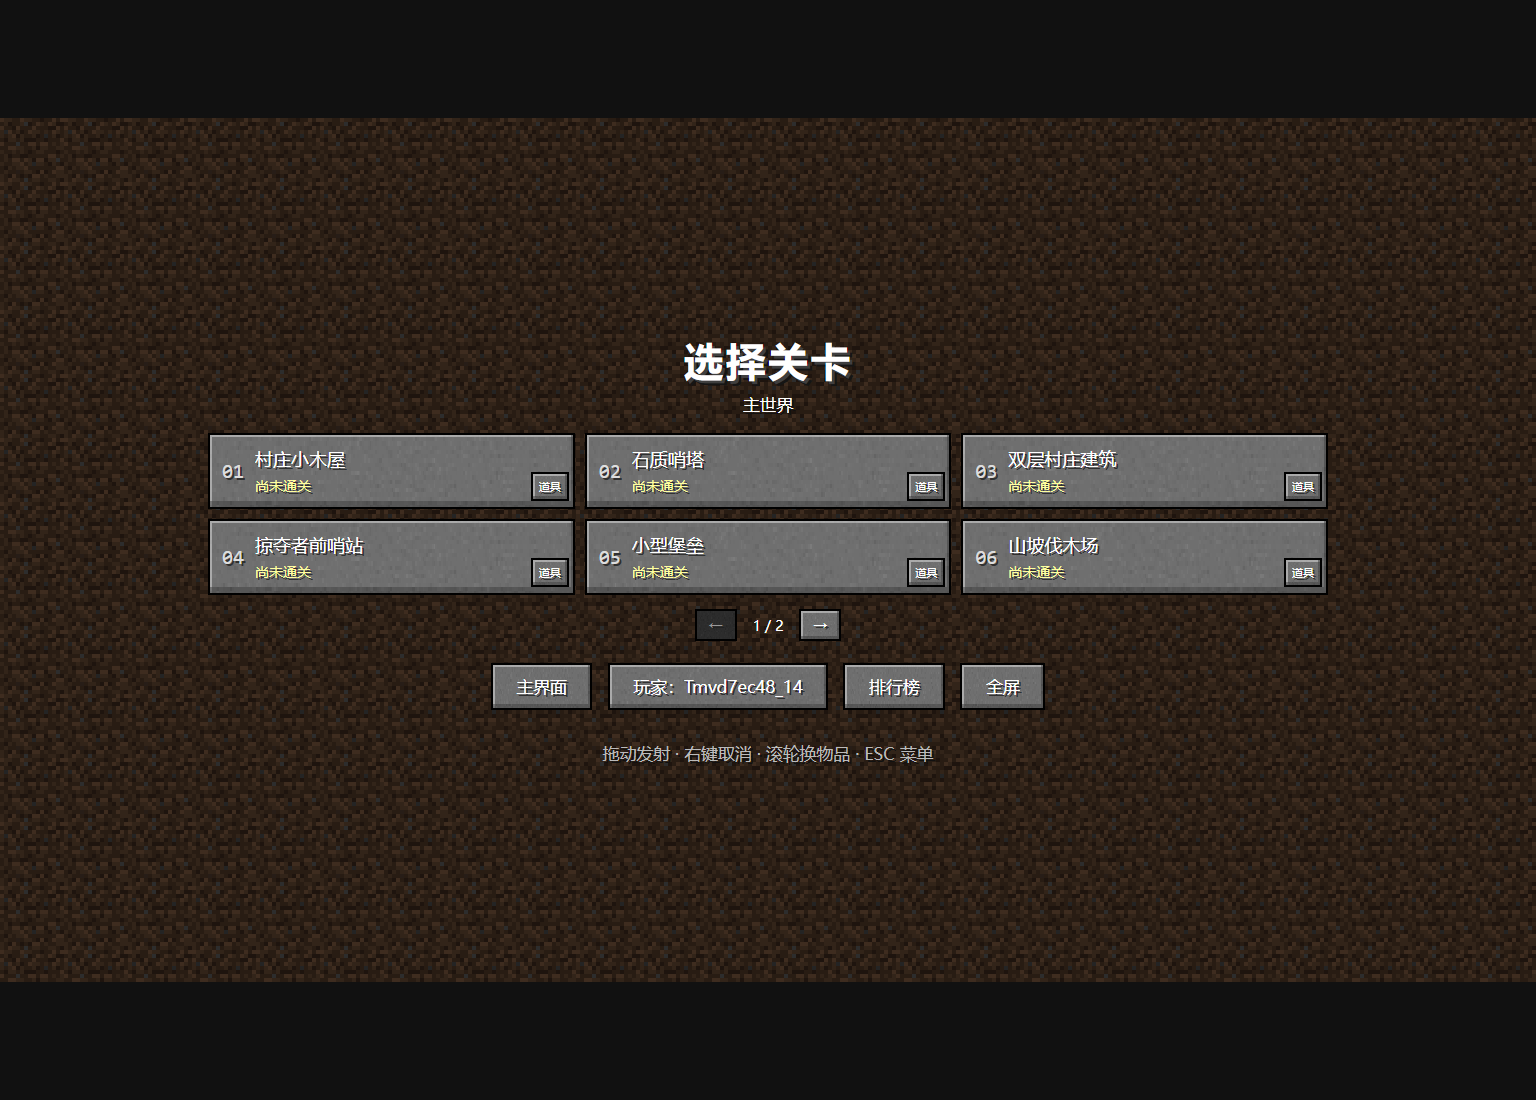
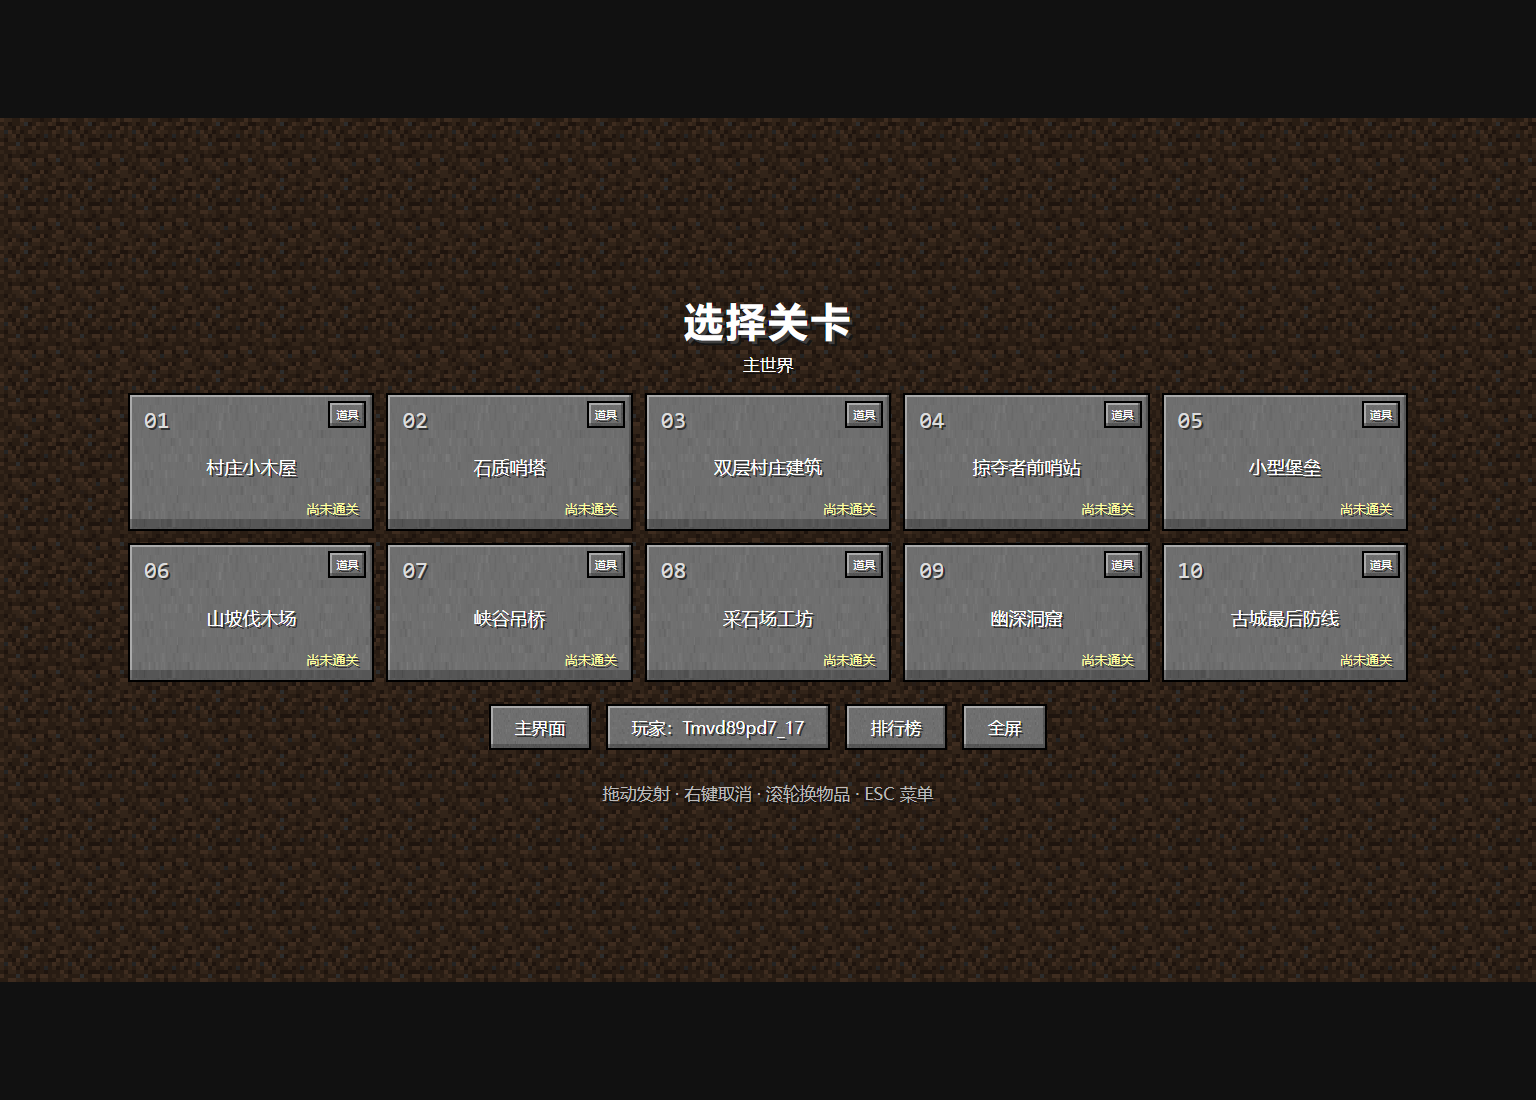
Polish cover menu, 16:9 level cards and audio settings

Changed region(s): [[0.0625, 0.2782, 0.9375, 0.7418]]

diff --git a/style.css b/style.css
@@ -16,19 +16,19 @@ canvas{display:block;width:100%;height:100%;touch-action:none;cursor:crosshair;i
 .ball:hover{background:#fff2}.ball.selected:before{content:"";position:absolute;inset:-10%;background:url('assets/gui/hotbar_selection.png') center/100% 100%;pointer-events:none;image-rendering:pixelated}
 .ball img{width:100%;height:100%;object-fit:contain;image-rendering:pixelated}
 .ball.empty img,.ball.empty .stack-count{visibility:hidden}
-.ball.depleted img{opacity:.38;filter:brightness(.55)}.ball.depleted .stack-count{color:#aaa}
+.ball.depleted img{opacity:.75;filter:brightness(.7)}.ball.depleted .stack-count{color:#ccc}
 .stack-count{position:absolute;z-index:3;right:3%;bottom:0;font:700 clamp(10px,1.4cqw,22px)/1 monospace;text-shadow:2px 2px #111,-1px -1px #111}
 .menu-screen,.result{position:absolute;inset:0;z-index:20;display:grid;place-items:center;background:#0009}
 #levelMenu,#leaderboardMenu{background:linear-gradient(#000a,#000a),url('assets/textures/dirt.png') repeat;background-size:auto,64px 64px;image-rendering:pixelated}
-.campaign-panel{width:84%;max-width:1120px;text-align:center}
+.campaign-panel{width:88%;max-width:1280px;max-height:94%;overflow:auto;padding:8px 0;text-align:center}
 h1{margin:0;font-size:clamp(24px,4.2cqw,64px);font-weight:900;letter-spacing:.15cqw;text-shadow:3px 3px #3f3f3f,5px 5px #151515}
 .menu-subtitle,.menu-help{font-size:clamp(9px,1.1cqw,17px);color:#ddd;line-height:1.5;text-shadow:2px 2px #111}
 .menu-subtitle{margin:1cqw 0 2cqw;color:#fff}.menu-help{margin:2cqw 0 0;color:#bbb}
-.level-grid{display:grid;grid-template-columns:repeat(3,minmax(0,1fr));gap:10px}
-.level-card{padding:10px 48px 10px 10px;display:grid;grid-template-columns:25px minmax(0,1fr);grid-template-rows:auto auto;align-items:center;gap:5px 8px;text-align:left}
-.level-card strong{grid-column:2;grid-row:1;min-width:0;overflow:hidden;text-overflow:ellipsis;white-space:nowrap;font-size:clamp(12px,1.25cqw,18px);font-weight:500}
-.level-card .personal-best{grid-column:2;grid-row:2;justify-self:end;margin-right:-38px;font-size:clamp(11px,.95cqw,14px);color:#ffffa0;white-space:nowrap}
-.level-card .level-number{grid-column:1;grid-row:1 / 3;font-family:monospace;font-size:20px;color:#ddd}.level-card:disabled .level-number{color:#888}
+.level-grid{display:grid;grid-template-columns:repeat(5,minmax(0,1fr));gap:12px}
+.level-card{padding:10px 12px;display:grid;grid-template-columns:minmax(0,1fr);grid-template-rows:auto 1fr auto;align-items:center;gap:4px;text-align:center;aspect-ratio:16/9}
+.level-card strong{grid-column:1;grid-row:2;min-width:0;overflow:hidden;text-overflow:ellipsis;white-space:nowrap;font-size:clamp(11px,1.18cqw,18px);font-weight:500}
+.level-card .personal-best{grid-column:1;grid-row:3;justify-self:end;margin:0;font-size:clamp(9px,.85cqw,13px);color:#ffffa0;white-space:nowrap}
+.level-card .level-number{grid-column:1;grid-row:1;justify-self:start;font-family:monospace;font-size:clamp(14px,1.5cqw,23px);color:#ddd}.level-card:disabled .level-number{color:#888}
 .level-card small{display:none}.level-card:disabled .personal-best{color:#aaa}
 .pause-panel{width:32%;min-width:200px;display:grid;gap:1cqw;text-align:center}
 .pause-panel h2{margin:0 0 2cqw;font-size:clamp(18px,2.5cqw,36px);text-shadow:3px 3px #222}
@@ -39,29 +39,30 @@ h1{margin:0;font-size:clamp(24px,4.2cqw,64px);font-weight:900;letter-spacing:.15
 .reward-icon{display:block;width:clamp(42px,6cqw,90px);height:clamp(42px,6cqw,90px);margin:1.5cqw auto;object-fit:contain;image-rendering:pixelated}
 .result-buttons{display:grid;gap:.8cqw;justify-content:stretch;max-width:26cqw;min-width:150px;margin:2cqw auto 0}.result-buttons button{padding:.5cqw 1cqw;font-size:clamp(10px,1.2cqw,18px)}
 .hidden,[hidden]{display:none!important}
-.level-card-wrap{position:relative;min-width:0}.level-card-wrap>.level-card{width:100%;height:100%;min-height:76px}
-.loadout-info{position:absolute;right:6px;top:8px;padding:3px 4px;font-size:11px;min-height:28px;z-index:1}
+.level-card-wrap{position:relative;min-width:0;aspect-ratio:16/9}.level-card-wrap>.level-card{width:100%;height:100%;min-height:0}
+.loadout-info{position:absolute;right:8px;top:8px;padding:2px 4px;font-size:11px;min-height:26px;z-index:1}
 .loadout-tooltip{display:none;position:absolute;bottom:calc(100% + 5px);right:0;width:max-content;max-width:min(240px,70vw);z-index:40;padding:8px 12px;background:#17101ff5;border:2px solid #5a386e;box-shadow:2px 2px #000;color:#fff;font-size:13px;line-height:1.5;text-align:left}
 .loadout-tooltip>div{display:flex;align-items:center;gap:8px;white-space:nowrap}.loadout-tooltip img{width:24px;height:24px;object-fit:contain;image-rendering:pixelated}
+.level-card-wrap:nth-child(5n+1) .loadout-tooltip{left:0;right:auto}
 .show-loadout .loadout-tooltip{display:block}.show-loadout{z-index:30}
-.level-card-wrap:nth-child(-n+3) .loadout-tooltip{top:calc(100% + 5px);bottom:auto}
-.page-controls{display:flex;align-items:center;justify-content:center;gap:16px;margin-top:14px;font-size:14px}.page-controls button{min-width:40px;min-height:32px;padding:0 10px}
+.level-card-wrap:nth-child(-n+5) .loadout-tooltip{top:calc(100% + 5px);bottom:auto}
 .campaign-panel>h1{font-size:clamp(24px,2.7cqw,40px)}.campaign-panel>.menu-subtitle{margin:6px 0 16px}
-.start-screen{position:absolute;inset:0;z-index:20;cursor:pointer;background:linear-gradient(90deg,#0b1c2522,transparent 70%);touch-action:manipulation;outline-offset:-6px}
-.start-title{position:absolute;left:7%;top:19%;text-align:left;pointer-events:none}.start-title h1{font-size:clamp(36px,6.2cqw,94px);text-shadow:4px 4px #282828,7px 7px #111;letter-spacing:.15cqw}.start-title p{margin:16px 0;font-size:clamp(13px,1.7cqw,24px);text-shadow:2px 2px #222}
-.start-prompt{position:absolute;left:0;right:0;bottom:12%;margin:0;text-align:center;font-size:clamp(14px,1.7cqw,24px);text-shadow:2px 2px #111;animation:start-pulse 2.5s ease-in-out infinite;pointer-events:none}
+.start-screen{position:absolute;inset:0;z-index:20;cursor:pointer;background-color:#172e3b;background-image:linear-gradient(0deg,#000a,transparent 35%,transparent 80%,#0005),url('assets/sprites/title-cover.png');background-size:auto,cover;background-position:center;background-repeat:no-repeat;image-rendering:auto;touch-action:manipulation;outline-offset:-6px}
+.start-title{position:absolute;left:3%;right:3%;top:5%;text-align:center;pointer-events:none}.start-title h1{position:absolute;width:1px;height:1px;overflow:hidden;clip-path:inset(50%)}.start-title p{margin:0;font-size:clamp(13px,1.8cqw,28px);text-shadow:2px 2px #111,-1px -1px #222}
+.start-prompt{position:absolute;left:0;right:0;bottom:6%;margin:0;text-align:center;font-size:clamp(14px,1.7cqw,24px);text-shadow:2px 2px #111;animation:start-pulse 2.5s ease-in-out infinite;pointer-events:none}
 @keyframes start-pulse{50%{opacity:.55}}@media(prefers-reduced-motion:reduce){.start-prompt{animation:none}}
 #resultTiming{color:#ffffa0;font-variant-numeric:tabular-nums}
-.fullscreen-feedback{position:fixed;left:10%;right:10%;bottom:18%;z-index:100;padding:12px;background:#202020ef;border:2px solid #888;text-align:center;font-size:14px;line-height:1.6}
+.fullscreen-feedback{position:fixed;left:10%;right:10%;bottom:18%;z-index:100;padding:12px;background:#202020ef;border:2px solid #888;text-align:center;font-size:14px;line-height:1.6;pointer-events:none}
 #loadState{position:absolute;inset:0;display:grid;place-items:center;padding:35px;background:#202020;z-index:50;text-align:center;line-height:1.8}#loadState.error{color:#ffd3ce;background:#311c1c}
-@container (max-width:800px){.campaign-panel{width:94%}.menu-help{margin:10px 0 0}.pause-panel{gap:1.5cqw}.level-card-wrap>.level-card{min-height:70px;padding:8px 43px 8px 6px;grid-template-columns:20px minmax(0,1fr);gap:4px}.level-card .level-number{font-size:16px}.level-grid{gap:7px}.campaign-panel>.menu-subtitle{margin:4px 0 10px}}
+@container (max-width:800px){.campaign-panel{width:94%}.menu-help{margin:8px 0 0}.pause-panel{gap:1.5cqw}.level-card-wrap>.level-card{padding:6px;gap:2px}.level-card .level-number{font-size:14px}.level-grid{gap:6px}.campaign-panel>.menu-subtitle{margin:4px 0 10px}.loadout-info{right:5px;top:5px;min-height:23px;font-size:10px;padding:1px 2px}}
 .menu-actions{display:flex;justify-content:center;gap:1cqw;margin-top:1.4cqw}.menu-actions button{padding:.55cqw 1.4cqw;font-size:clamp(11px,1.1cqw,17px)}
 .dialog-panel{width:min(620px,76%);max-height:92%;overflow:auto;padding:2cqw;display:grid;gap:1cqw;background:#202020;border:4px solid #777;box-shadow:inset 3px 3px #444,inset -3px -3px #080808;text-shadow:2px 2px #111}
 .dialog-panel h2{margin:0;text-align:center;font-size:clamp(18px,2.2cqw,32px)}.dialog-panel p{margin:.2cqw 0;line-height:1.6;font-size:clamp(11px,1.1cqw,16px)}.dialog-panel button{padding:.65cqw;font-size:clamp(13px,1.2cqw,18px)}
 .dialog-panel label{font-size:clamp(12px,1.2cqw,18px)}.dialog-panel input{min-width:0;width:100%;padding:10px 12px;border:2px solid #888;background:#080808;color:#fff;border-radius:0;font:inherit;font-size:16px;outline-offset:2px}.online-status{color:#ffffa0;min-height:1.5em}
+.settings-panel{width:min(520px,80%)}.settings-panel output{float:right;color:#ffffa0;font-variant-numeric:tabular-nums}.settings-panel input[type=range]{height:28px;padding:0;border:0;background:transparent;accent-color:#8da87a;cursor:pointer}
 .leaderboard-panel{width:min(850px,88%)}.ranking-scroll{overflow:auto;max-height:40cqh}.ranking-scroll table{width:100%;border-collapse:collapse;text-align:center;font-size:clamp(11px,1.1cqw,17px)}.ranking-scroll th,.ranking-scroll td{padding:.65cqw;border-bottom:2px solid #444}.ranking-scroll td:nth-child(2){max-width:17cqw;overflow-wrap:anywhere}.ranking-scroll tr.self{color:#ffff55}.ranking-scroll th{color:#bbb;font-weight:400}
 .touch-controls{display:none;position:absolute;z-index:8;top:max(10px,env(safe-area-inset-top));left:max(10px,env(safe-area-inset-left))}.touch-controls button{min-width:44px;min-height:44px;padding:4px 12px;font-size:15px}.menu-open .touch-controls{display:none!important}
 .rotate-hint{display:none;position:fixed;left:12px;right:12px;bottom:max(24px,env(safe-area-inset-bottom));text-align:center;color:#ddd;font-size:14px;line-height:1.8}.rotate-hint button{display:block;margin:10px auto;padding:10px 20px}
-@media (pointer:coarse){.touch-controls{display:flex}.inventory{width:72%;bottom:max(1.3%,env(safe-area-inset-bottom))}.gamehint{font-size:12px}.menu-help{font-size:11px}.level-card strong{font-size:12px}.level-card .personal-best{font-size:11px}.menu-actions button{min-height:34px}.menu-actions{margin-top:1cqw}.loadout-info{min-height:34px;top:5px}.page-controls{margin-top:10px;gap:12px}.page-controls button{min-height:34px}}
+@media (pointer:coarse){.touch-controls{display:flex}.inventory{width:72%;bottom:max(1.3%,env(safe-area-inset-bottom))}.gamehint{font-size:12px}.menu-help{font-size:11px}.level-card strong{font-size:clamp(10px,1.2cqw,14px)}.level-card .personal-best{font-size:clamp(9px,1cqw,12px)}.menu-actions button{min-height:34px}.menu-actions{margin-top:1cqw}.loadout-info{min-height:23px;top:5px}}
 @media (pointer:coarse){.gamehint{left:30%;right:3%;top:18px}}
-@media (orientation:portrait) and (pointer:coarse){.rotate-hint{display:block}.viewport.menu-open{width:100vw;height:100dvh}.campaign-panel{width:92%;max-height:96%;overflow:auto;padding:16px 0}.level-grid{grid-template-columns:repeat(2,minmax(0,1fr))}.level-card-wrap>.level-card{min-height:94px;padding:8px 8px 30px;grid-template-columns:20px minmax(0,1fr);gap:4px}.level-card strong{font-size:12px}.level-card .personal-best{font-size:10px}.loadout-info{top:auto;bottom:4px}.level-card .personal-best{margin-right:0}.level-card-wrap:nth-child(3) .loadout-tooltip{top:auto;bottom:calc(100% + 5px)}.campaign-panel>h1{font-size:28px}.menu-actions{flex-wrap:wrap;gap:6px;margin-top:12px}.menu-actions button{padding:8px 10px}.dialog-panel{width:92%;padding:16px;gap:12px}.dialog-panel h2{font-size:22px}.dialog-panel p{font-size:13px}.dialog-panel button{min-height:42px}.ranking-scroll{max-height:48dvh}.ranking-scroll table{font-size:12px}.ranking-scroll td,.ranking-scroll th{padding:8px 3px}.menu-open~.rotate-hint{display:none}.start-title{top:28%}.start-title h1{font-size:44px}.start-title p{font-size:16px}.start-prompt{bottom:28%;font-size:16px}}
+@media (orientation:portrait) and (pointer:coarse){.rotate-hint{display:block}.viewport.menu-open{width:100vw;height:100dvh}.campaign-panel{width:94%;max-height:96%;padding:10px 0}.level-grid{grid-template-columns:repeat(2,minmax(0,1fr));gap:7px}.level-card strong{font-size:12px}.level-card .personal-best{font-size:10px}.level-card-wrap:nth-child(n+3) .loadout-tooltip{top:auto;bottom:calc(100% + 5px)}.level-card-wrap:nth-child(2n+1) .loadout-tooltip{left:0;right:auto}.campaign-panel>h1{font-size:26px}.menu-actions{flex-wrap:wrap;gap:6px;margin-top:10px}.menu-actions button{padding:6px 8px}.dialog-panel{width:92%;padding:16px;gap:12px}.dialog-panel h2{font-size:22px}.dialog-panel p{font-size:13px}.dialog-panel button{min-height:38px}.ranking-scroll{max-height:48dvh}.ranking-scroll table{font-size:12px}.ranking-scroll td,.ranking-scroll th{padding:8px 3px}.menu-open~.rotate-hint{display:none}.start-screen{background-size:auto,100% auto}.start-title{top:16%}.start-title p{font-size:16px}.start-prompt{bottom:16%;font-size:16px}}

diff --git a/index.html b/index.html
@@ -1,19 +1,20 @@
 <!doctype html><html lang="zh-CN"><head>
 <meta charset="utf-8"><meta name="viewport" content="width=device-width,initial-scale=1,viewport-fit=cover"><meta name="theme-color" content="#151515">
-<title>拉满的石 · Stone at Full Draw</title><link rel="icon" type="image/png" href="assets/sprites/game-icon.png"><link rel="stylesheet" href="style.css"></head><body>
+<title>拉满的石 · Stone at Full Draw</title><link rel="icon" type="image/png" href="assets/sprites/game-icon.png"><link rel="preload" as="image" href="assets/sprites/title-cover.png"><link rel="stylesheet" href="style.css"></head><body>
 <main class="viewport" id="gameRoot">
  <canvas id="stage" width="1536" height="864" aria-label="像素攻城二维物理游戏"></canvas><p id="fullscreenStatus" class="fullscreen-feedback" role="status" hidden></p>
  <div id="loadState" role="status">正在加载原版纹理与物理引擎…</div>
  <div class="gamehint faded" id="gamehint"></div>
  <nav class="touch-controls" aria-label="触屏操作"><button id="touchPause">暂停菜单</button></nav>
  <div class="inventory" id="inventory"><div id="ballbar" class="ballbar" aria-label="物品栏"></div></div>
- <section id="startScreen" class="start-screen hidden" aria-label="开始游戏" role="button" tabindex="0"><div class="start-title"><h1>拉满的石</h1><p>四种弹药 · 十关挑战</p></div><p class="start-prompt">点击任意位置开始游戏</p></section>
+ <section id="startScreen" class="start-screen hidden" aria-label="拉满的石，点击开始游戏" role="button" tabindex="0"><div class="start-title"><h1>拉满的石</h1><p>如果把弹弓放进我的世界，会发生什么？</p></div><p class="start-prompt">点击任意位置开始游戏</p></section>
  <section id="levelMenu" class="menu-screen hidden" aria-label="选关">
-  <div class="campaign-panel"><h1>选择关卡</h1><p class="menu-subtitle">主世界</p><div id="levelCards" class="level-grid"></div><div class="page-controls"><button id="prevPage" aria-label="上一页">←</button><span id="pageStatus">1 / 2</span><button id="nextPage" aria-label="下一页">→</button></div><div class="menu-actions"><button id="homeBtn">主界面</button><button id="profileBtn">设置昵称</button><button id="leaderboardBtn">排行榜</button><button id="fullscreenBtn">全屏</button></div><p class="menu-help" id="menuHelp">拖动发射 · 右键取消 · 滚轮换物品 · ESC 菜单</p><small id="cloudState" hidden role="status"></small></div>
+  <div class="campaign-panel"><h1>选择关卡</h1><p class="menu-subtitle">主世界</p><div id="levelCards" class="level-grid"></div><div class="menu-actions"><button id="homeBtn">主界面</button><button id="profileBtn">设置昵称</button><button id="leaderboardBtn">排行榜</button><button id="fullscreenBtn">全屏</button></div><p class="menu-help" id="menuHelp">拖动发射 · 右键取消 · 滚轮换物品 · ESC 菜单</p><small id="cloudState" hidden role="status"></small></div>
  </section>
  <section id="pauseMenu" class="menu-screen hidden" aria-label="暂停菜单"><div class="pause-panel"><h2>游戏暂停</h2>
-  <button id="resume">继续游戏</button><button id="restart" aria-label="↻ 重开">重新挑战</button><button id="levelMenuBtn">选择关卡</button><button id="soundToggle">音效：开</button><button id="musicToggle">音乐：开</button>
+  <button id="resume">继续游戏</button><button id="restart" aria-label="重新开始">重新开始</button><button id="settingsBtn">设置</button><button id="levelMenuBtn">选择关卡</button><button id="pauseHomeBtn">返回主菜单</button>
  </div></section>
+ <section id="settingsMenu" class="menu-screen hidden" aria-label="设置"><div class="dialog-panel settings-panel"><h2>设置</h2><button id="soundToggle">音效：开</button><label for="sfxVolume">音效音量 <output id="sfxValue" for="sfxVolume">100%</output></label><input id="sfxVolume" type="range" min="0" max="100" step="1" value="100"><button id="musicToggle">音乐：开</button><button id="settingsBack">返回暂停菜单</button></div></section>
  <section id="profileMenu" class="menu-screen hidden" aria-label="玩家昵称"><form class="dialog-panel" id="profileForm"><h2>你叫什么名字？</h2><p>设置昵称后开始挑战，十关全通后记录排行榜成绩。</p><label for="nickname">玩家昵称</label><input id="nickname" name="nickname" maxlength="16" minlength="1" autocomplete="nickname" required><p id="profileStatus" class="online-status" role="status"></p><button id="saveProfile" type="submit">开始冒险</button><button id="profileBack" type="button">返回</button></form></section>
  <section id="leaderboardMenu" class="menu-screen hidden" aria-label="排行榜"><div class="dialog-panel leaderboard-panel"><h2>主世界排行榜</h2><p>所有玩家可查看 · 全通后上榜 · 最多 100 人</p><p id="leaderboardStatus" class="online-status" role="status"></p><div class="ranking-scroll" id="rankingTable"><table><thead><tr><th>名次</th><th>玩家</th><th>总用时</th></tr></thead><tbody id="rankingRows"></tbody></table></div><button id="leaderboardRefresh">刷新</button><button id="leaderboardBack">返回选关</button></div></section>
  <section class="result hidden" id="result"><div class="result-inner"><span id="resultFlag">挑战成功</span><h2 id="resultTitle"></h2><img id="rewardIcon" class="reward-icon hidden" alt=""><p id="resultMsg"></p>

diff --git a/README.md b/README.md
@@ -17,10 +17,10 @@ Windows 玩家可下载[0.11.0 历史试玩包](https://github.com/qcya/stone-at
 ## 操作与闯关
 
 - 拖住弹药调整方向和力度，松开发射；可向后、轻抛。右键取消；手机拉弓时用另一根手指轻点任意位置取消。
-- 首页展示游戏场景，点击任意位置（或 Enter／空格）进入选关；首次游玩先设置昵称。选关每页六关，可翻页，保留个人最快时间。
+- 首页使用弹弓与木屋封面插画，点击任意位置（或 Enter／空格）进入选关；首次游玩先设置昵称。十关同页展示，横屏五列两行，每张关卡按钮保持16:9，保留个人最快时间。
 - 原版九格物品栏，数字键 1–9／滚轮切换；前四格固定为圆石、TNT、末影珍珠、烈焰弹。已解锁但本关未配或已用完的道具保留暗图标与数量 0；未解锁和预留格为空。触屏保持可见，电脑闲置后自动隐藏。
-- ESC / 手机左上角“暂停菜单”暂停；菜单可重开和选关。R 重开当前关。切到其他应用自动暂停。
-- 选关“全屏”优先调用 Toy App 的横屏沉浸接口，再尝试浏览器全屏与方向锁定；不支持时显示手动横屏提示。真实手机仍需验收。
+- ESC / 手机左上角“暂停菜单”暂停；依次提供继续游戏、重新开始、设置、选择关卡、返回主菜单。设置可开关音效、调节音效音量并保存，也可独立开关音乐。R 重开当前关，切到其他应用自动暂停。
+- 选关“全屏”优先调用 Toy App 的横屏沉浸接口，再尝试浏览器全屏与方向锁定；成功后按钮显示“取消全屏”，点击退出并释放方向锁，不支持时显示提示。真实手机仍需验收。
 - 通关页显示本次用时和个人最快；选关卡片右侧显示个人最快，只有点击“道具”才展开本关弹药短清单，再点一次或点空白处关闭。总榜保持十关全通后上榜，只展示各关最快用时之和。
 - 第一、二、三关分别解锁 TNT、末影珍珠、烈焰弹。旧五关全通存档会解锁第六关。
 - 清场后等待死亡粒子消散再显示通关；所有弹药和正在进行的攻击结束后才判失败。

diff --git a/docs/TOY.md b/docs/TOY.md
@@ -1,5 +1,17 @@
 # B 站 Toy 适配
 
+## 当前试玩：封面首页、16:9卡片、设置与全屏切换 — 2026-10-18
+
+本轮以用户的新反馈替换六关分页方案：十关同页，横屏五列两行，每张实际按钮16:9；手机竖屏两列，允许竖向滚动而不翻页。主界面改用已有封面插画，配“如果把弹弓放进我的世界，会发生什么？”引子，不再用第一关截图作背景。
+
+九格耗尽图标提高可辨认度（仍保留0及暗色）。暂停菜单固定五项：继续游戏、重新开始、设置、选择关卡、返回主菜单。设置新增持久化音效开关和音量，同时影响正在播放的效果与拉弓WebAudio增益，保留独立音乐开关。设置页保持物理暂停，返回或ESC回暂停菜单。
+
+全屏入口根据实际浏览器状态／Toy沉浸状态切换“全屏／取消全屏”；浏览器退出后释放方向锁，原生退出调用`setContainerMode({orientation:'landscape',immersive:false})`。浏览器全屏往返和SDK参数验证不能代替真实B站App设备验收。
+
+继续遵守用户“先试玩，暂不提交”：没有上传本轮Toy更新或提交审核；之前的B6cw4GTK预览仍为旧版本。
+
+验证：155项单测、43项全量浏览器用例通过；复查后补充方向锁失败提示不挡点击、外部退出后重新全屏及窄屏道具弹窗边界回归，5项菜单设置用例通过。已更新内网静态页面（`http://192.168.1.4:8770/`），无页面错误或资源404；线上榜单实测保留星海_Astra 06:37.000与青春沿岸最新07:13.076，部署不写玩家数据、不重启服务。
+
 ## 当前试玩：主界面、紧凑选关、九格与僵尸腰部 — 2026-10-18
 
 用户选择“先试玩，暂不提交”，后续又调整了菜单与物品栏，因此下方 B6cw4GTK 为上一轮预览，不包含本节修改，不应作为最新版本提交。本轮不上传、不提交 Toy 审核，也不改动视频。
